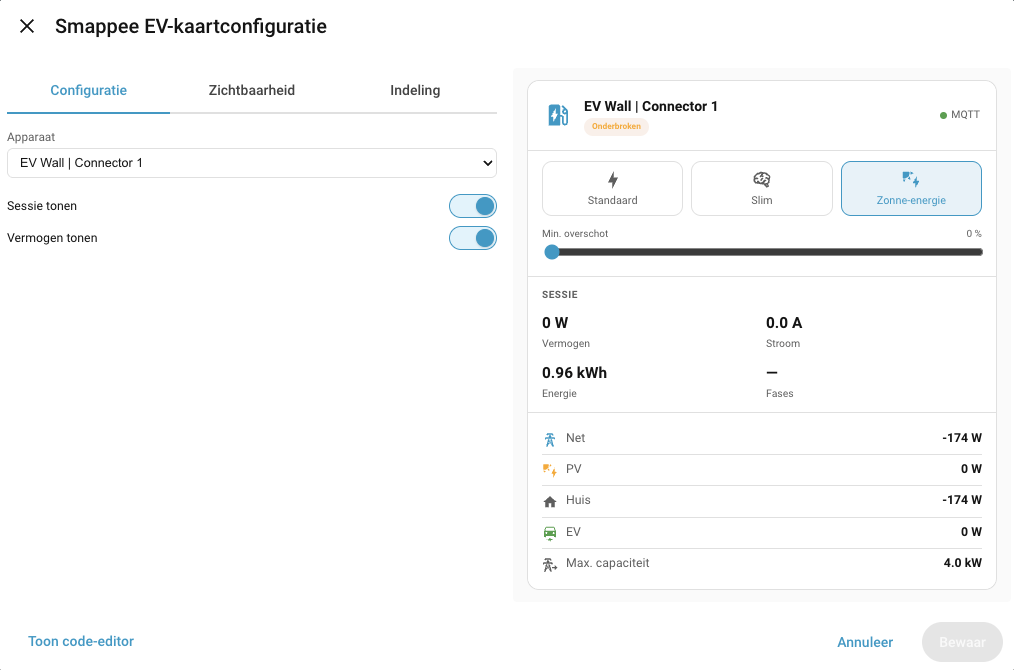
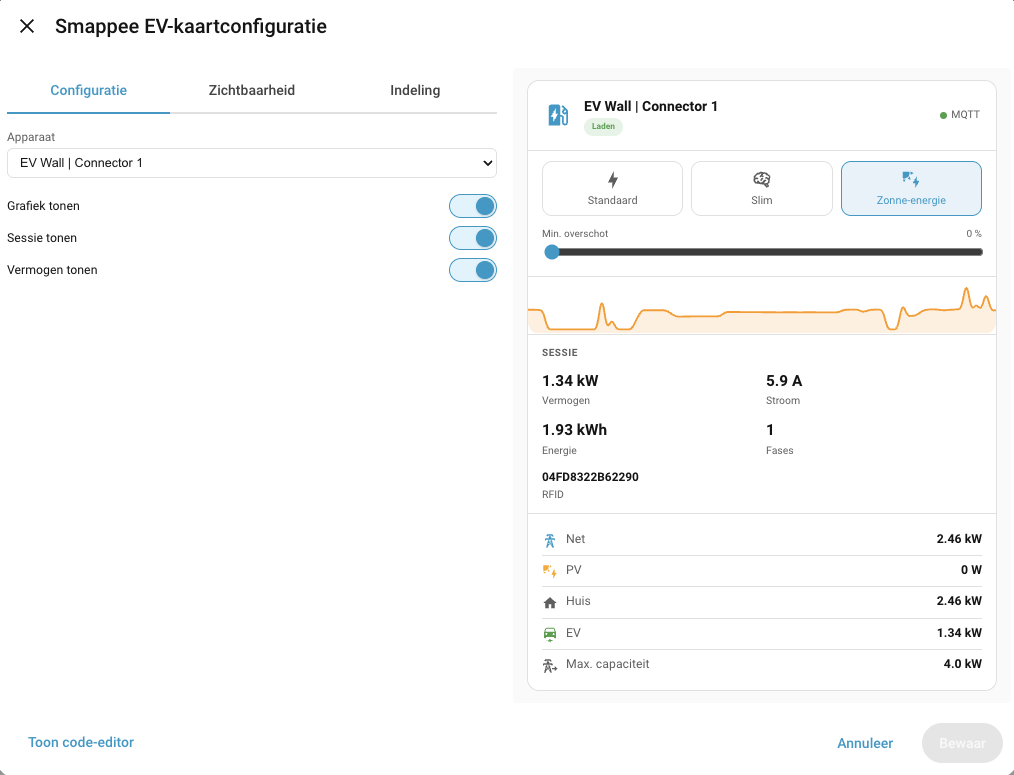
docs: update README with show_graph option and new screenshot

diff --git a/README.md b/README.md
@@ -36,5 +36,6 @@ device_id: <device_id>
 | Option | Default | Description |
 |---|---|---|
 | `device_id` | required | Smappee EV charging station device ID |
-| `show_session` | `true` | Active session info (power, current, energy, phases) |
+| `show_graph` | `true` | Power trend graph (requires [mini-graph-card](https://github.com/kalkih/mini-graph-card)) |
+| `show_session` | `true` | Active session info (power, current, energy, phases, RFID) |
 | `show_power` | `true` | Grid / PV / house / EV power overview |
